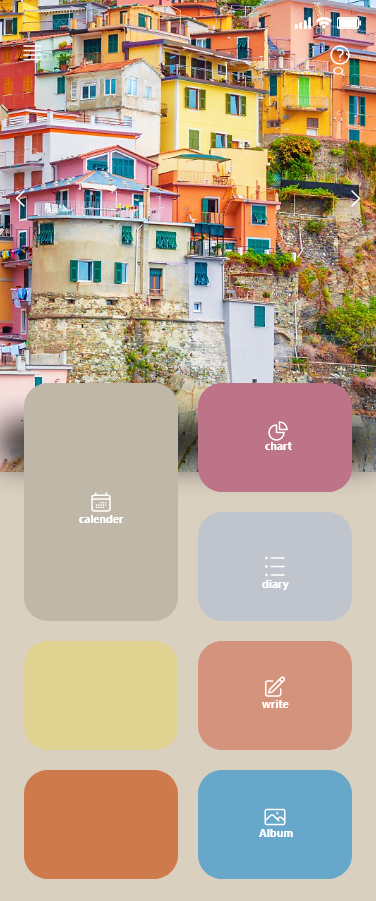
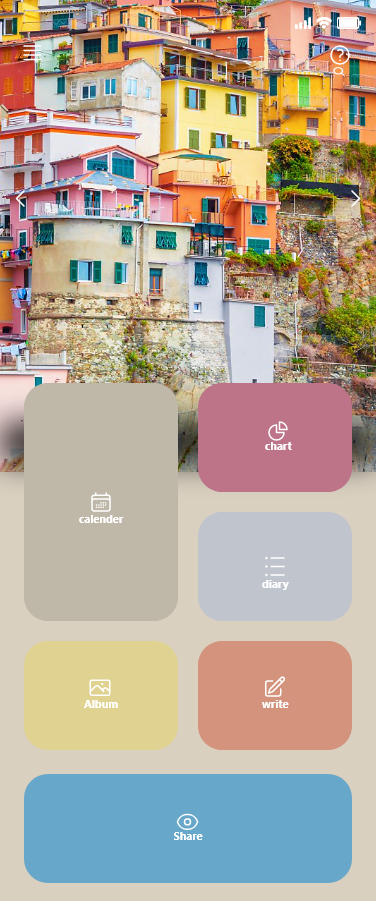
(feat) 테마 디테일 적용 오류 수정 + 테마 적용 페이지 이미지 변경
보완할 사항 없음.

Changed region(s): [[0.0585, 0.8391, 0.9362, 0.9945], [0.234, 0.7458, 0.3218, 0.808]]

diff --git a/screens/DetailScreen.js b/screens/DetailScreen.js
@@ -61,6 +61,69 @@ function DetailScreen( card ) {
       }
     }
 
+    else if (selectedTheme.includes("classic")){
+      setNowTheme(classic);
+      editorOption = {
+        backgroundColor: classic.cardBg,
+        placeholderColor: "#456185",
+        color: classic.font,
+      }
+    }
+
+    else if (selectedTheme.includes("purple")){
+      setNowTheme(purple);
+      editorOption = {
+        backgroundColor: purple.cardBg,
+        placeholderColor: "#456185",
+        color: purple.font,
+      }
+    }
+
+    else if (selectedTheme.includes("block")){
+      setNowTheme(block);
+      editorOption = {
+        backgroundColor: block.cardBg,
+        placeholderColor: "#456185",
+        color: block.font,
+      }
+    }
+
+    else if (selectedTheme.includes("pattern")){
+      setNowTheme(pattern);
+      editorOption = {
+        backgroundColor: pattern.cardBg,
+        placeholderColor: "#456185",
+        color: pattern.font,
+      }
+    }
+
+    else if (selectedTheme.includes("magazine")){
+      setNowTheme(magazine);
+      editorOption = {
+        backgroundColor: magazine.cardBg,
+        placeholderColor: "#456185",
+        color: magazine.font,
+      }
+    }
+
+    else if (selectedTheme.includes("winter")){
+      setNowTheme(winter);
+      editorOption = {
+        backgroundColor: winter.cardBg,
+        placeholderColor: "#456185",
+        color: winter.font,
+      }
+    }
+
+    else {
+      setNowTheme(dark);
+      editorOption = {
+        backgroundColor: dark.cardBg,
+        placeholderColor: "#456185",
+        color: dark.font,
+      }
+    }
+
     setEditorColor(editorOption)
   }
 

diff --git a/App.js b/App.js
@@ -238,7 +238,7 @@ function MyStack() {
       <Stack.Screen name="Write" component={WriteScreen} options={{ headerTintColor: "black" }} />
       <Stack.Screen name="Diary" component={DiaryScreen} options={{ headerTintColor: "black" }} />
       <Stack.Screen name="Picture" component={PictureScreen} options={{ headerTintColor: "black" }} />
-      <Stack.Screen name="Share" component={ShareScreen} />
+      <Stack.Screen name="Share" component={ShareScreen} options={{ headerTintColor: "black" }}/>
 
       {/* 기타 스크린 */}
       <Stack.Screen name="Join" component={JoinScreen} options={{ title: "회원가입", headerTintColor: "black" }} />
@@ -248,7 +248,7 @@ function MyStack() {
       <Stack.Screen name="Detail" component={DetailScreen} options={{ headerTintColor: "black" }} />
       <Stack.Screen name="Modify" component={ModifyScreen} options={{ headerTintColor: "black" }} />
       <Stack.Screen name="Album" component={PictureDeailScreen} options={{ headerTintColor: "black" }} />
-      <Stack.Screen name="ShareAll" component={ShareAllScreen} />
+      <Stack.Screen name="ShareAll" component={ShareAllScreen} options={{ headerTintColor: "black" }}/>
 
     </Stack.Navigator>
   );

diff --git a/screens/Home.js b/screens/Home.js
@@ -127,7 +127,7 @@ function HomeScreen({ navigation }) {
                         <View style={styles.widgetContainer}>
                             <View style={styles.smallWidgetContaner}>
                             <TouchableOpacity onPress={(screen) => moveNavigate('Share')}>
-                                    <View style={{...styles.smallWidget2, backgroundColor:'#456185'}}>
+                                    <View style={{...styles.smallWidget2, backgroundColor:nowTheme.share}}>
                                         <Entypo name="shareable" size={24} color="white" />
                                         <Text style={styles.textStyle}>Share</Text>
                                     </View>

diff --git a/screens/CalenderScreen.js b/screens/CalenderScreen.js
@@ -163,7 +163,7 @@ function CalenderScreen({ navigation }) {
           />
 
         </View>
-        <Text style={styles.textStyle}>{selectDay.dateString}</Text>
+        <Text style={{...styles.textStyle, color:nowTheme.font}}>{selectDay.dateString}</Text>
         {/* 카드 가로 뷰 */}
         <View style={styles.cardContainer}>
           <SafeAreaView>

diff --git a/screens/ModifyScreen.js b/screens/ModifyScreen.js
@@ -114,6 +114,15 @@ function DetailScreen(card) {
       }
     }
 
+    else {
+      setNowTheme(dark);
+      editorOption = {
+        backgroundColor: dark.cardBg,
+        placeholderColor: "#456185",
+        color: dark.font,
+      }
+    }
+
     setEditorColor(editorOption)
   }
   console.log("card: ", card.route.params.card.route.params.card);

diff --git a/screens/component/ShareCard.js b/screens/component/ShareCard.js
@@ -52,7 +52,7 @@ function Card({data}) {
       console.log("ssssss",data.diarykey);
       await axios({
         method: "post",
-        url: 'http://192.168.2.64:3001/sharePush',
+        url: 'http://people-env.eba-35362bbh.ap-northeast-2.elasticbeanstalk.com:3001/sharePush',
         params: {
           diarykey: data.diarykey,
         }

diff --git a/screens/PictureDeailScreen.js b/screens/PictureDeailScreen.js
@@ -115,6 +115,15 @@ function DetailScreen(Album) {
       }
     }
 
+    else {
+      setNowTheme(dark);
+      editorOption = {
+        backgroundColor: dark.cardBg,
+        placeholderColor: "#456185",
+        color: dark.font,
+      }
+    }
+
     setEditorColor(editorOption)
   }
   console.log("Album: ", Album.route.params.album);

diff --git a/screens/css/globalStyles.js b/screens/css/globalStyles.js
@@ -172,7 +172,7 @@ export const magazine={
 
 export const winter={
     logo:require('../../assets/images/logoWinter.png'),
-    logoColor:"#8651a6",
+    logoColor:"#727370",
     icon:<Ionicons name="snow" size={36} color="white" />,
     image:require('../../assets/images/winter.png'),
     bg:"#F2F3ED",

diff --git a/screens/WriteScreen.js b/screens/WriteScreen.js
@@ -114,6 +114,15 @@ function WriteScreen({ navigation }) {
       }
     }
 
+    else {
+      setNowTheme(dark);
+      editorOption = {
+        backgroundColor: dark.cardBg,
+        placeholderColor: "#456185",
+        color: dark.font,
+      }
+    }
+
     setEditorColor(editorOption)
   }
 
